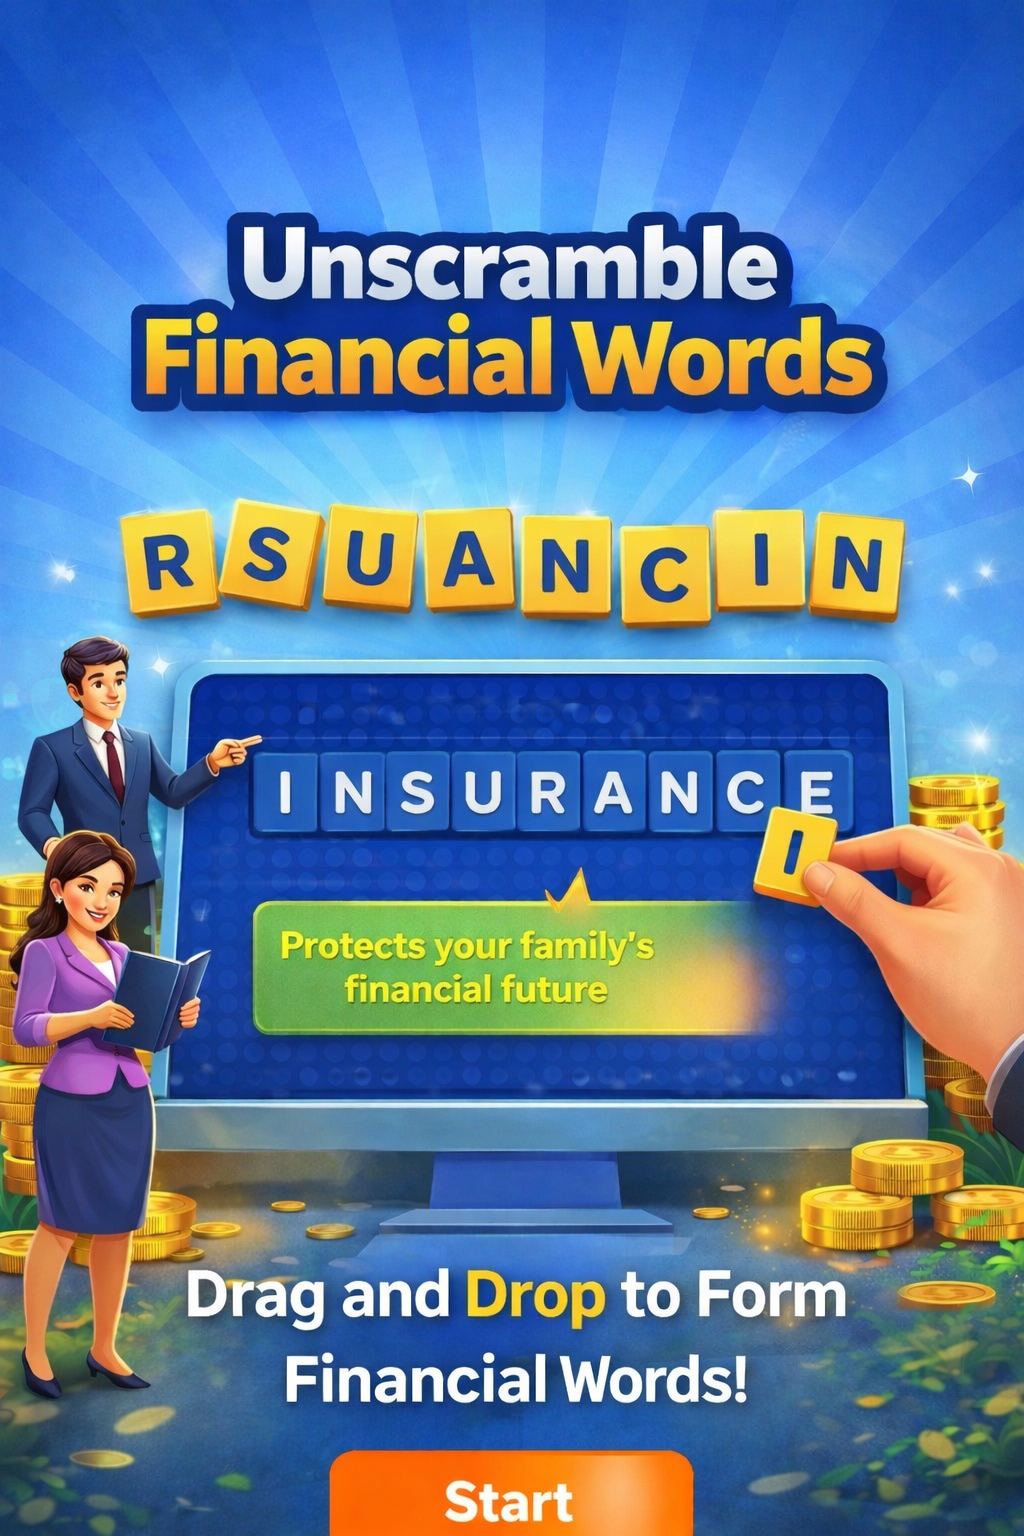
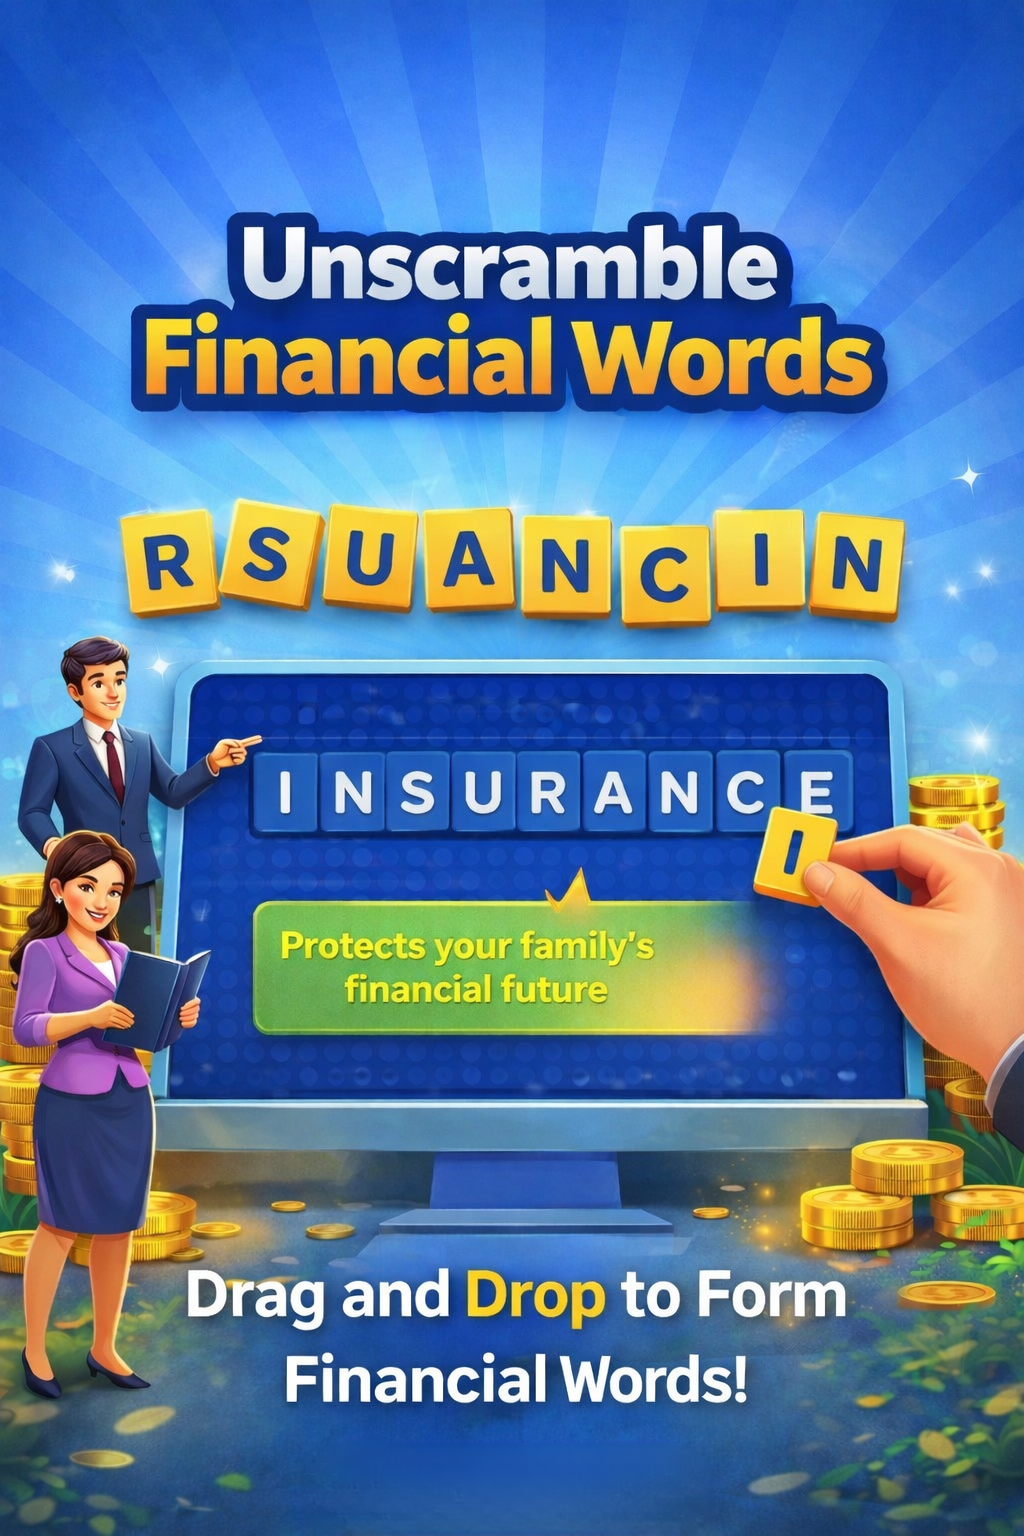
startbutton

Changed region(s): [[0.3125, 0.9375, 0.6875, 1.0]]

diff --git a/src/components/StartScreen.jsx b/src/components/StartScreen.jsx
@@ -48,11 +48,10 @@ export default function StartScreen({ onStart }) {
                     backgroundRepeat: "no-repeat",
                 }}
             >
-                {/* Start Button */}
-                <div className="z-20 w-[45%] max-w-[170px] sm:w-[55%] sm:max-w-[220px] mb-1 sm:mb-3">
+                <div className="z-20 w-[40%] max-w-[150px] sm:w-[50%] sm:max-w-[200px] mb-1 sm:mb-3">
                     <motion.button
                         onClick={handleStartClick}
-                        className="game-button-blue w-full py-2 sm:py-3 rounded-[1.2rem] sm:rounded-[1.5rem] font-game text-sm sm:text-lg md:text-xl tracking-widest uppercase"
+                        className="game-button-blue w-full py-2 sm:py-2.5 rounded-[1rem] sm:rounded-[1.2rem] font-game text-xs sm:text-base md:text-lg tracking-widest uppercase"
                         initial={{ y: 30, opacity: 0 }}
                         animate={{ y: 0, opacity: 1 }}
                         transition={{ delay: 0.3, type: "spring", stiffness: 100 }}
